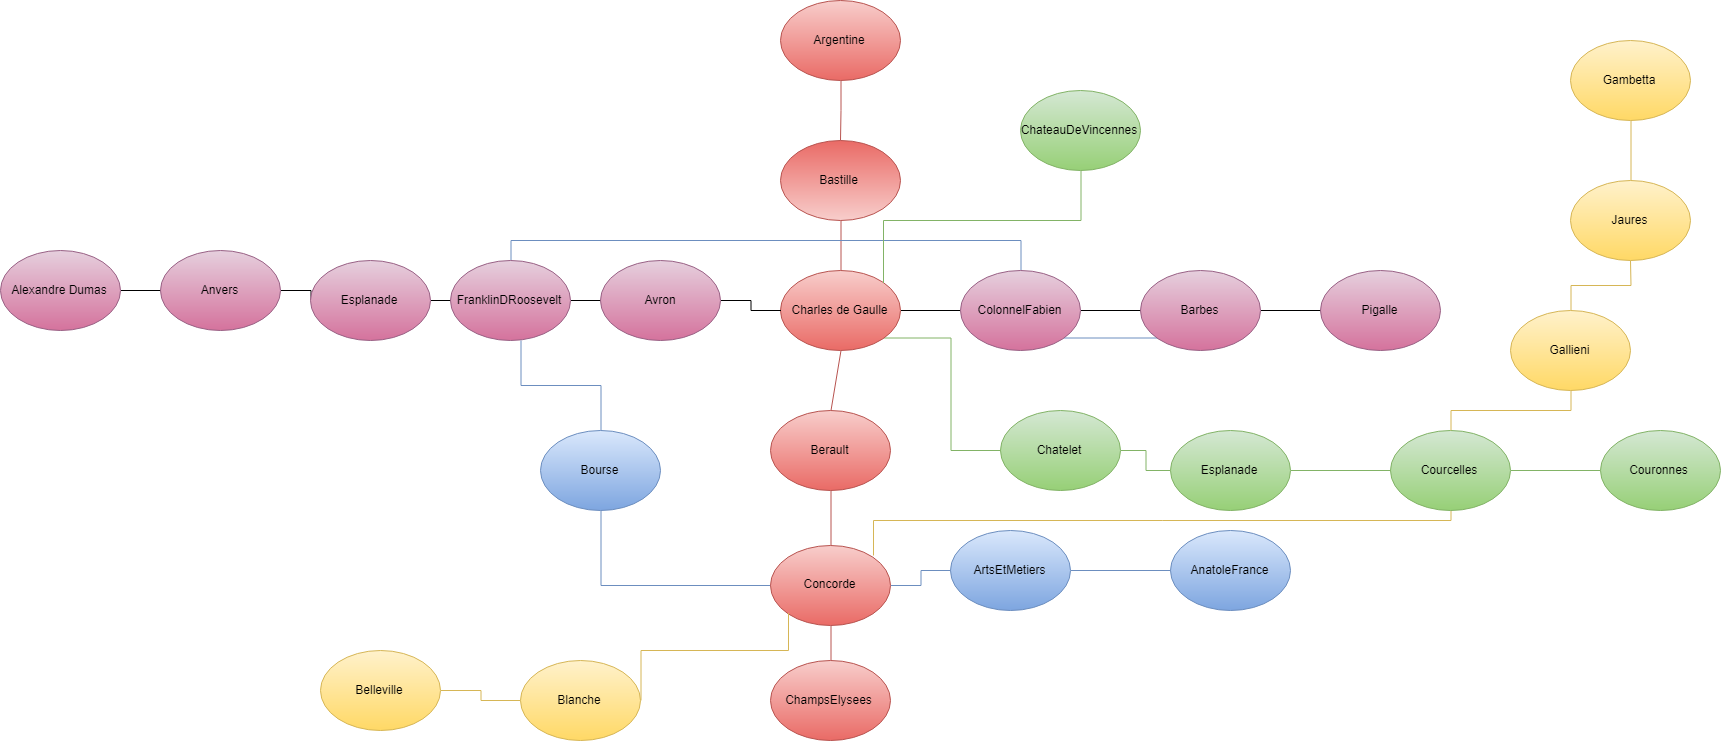
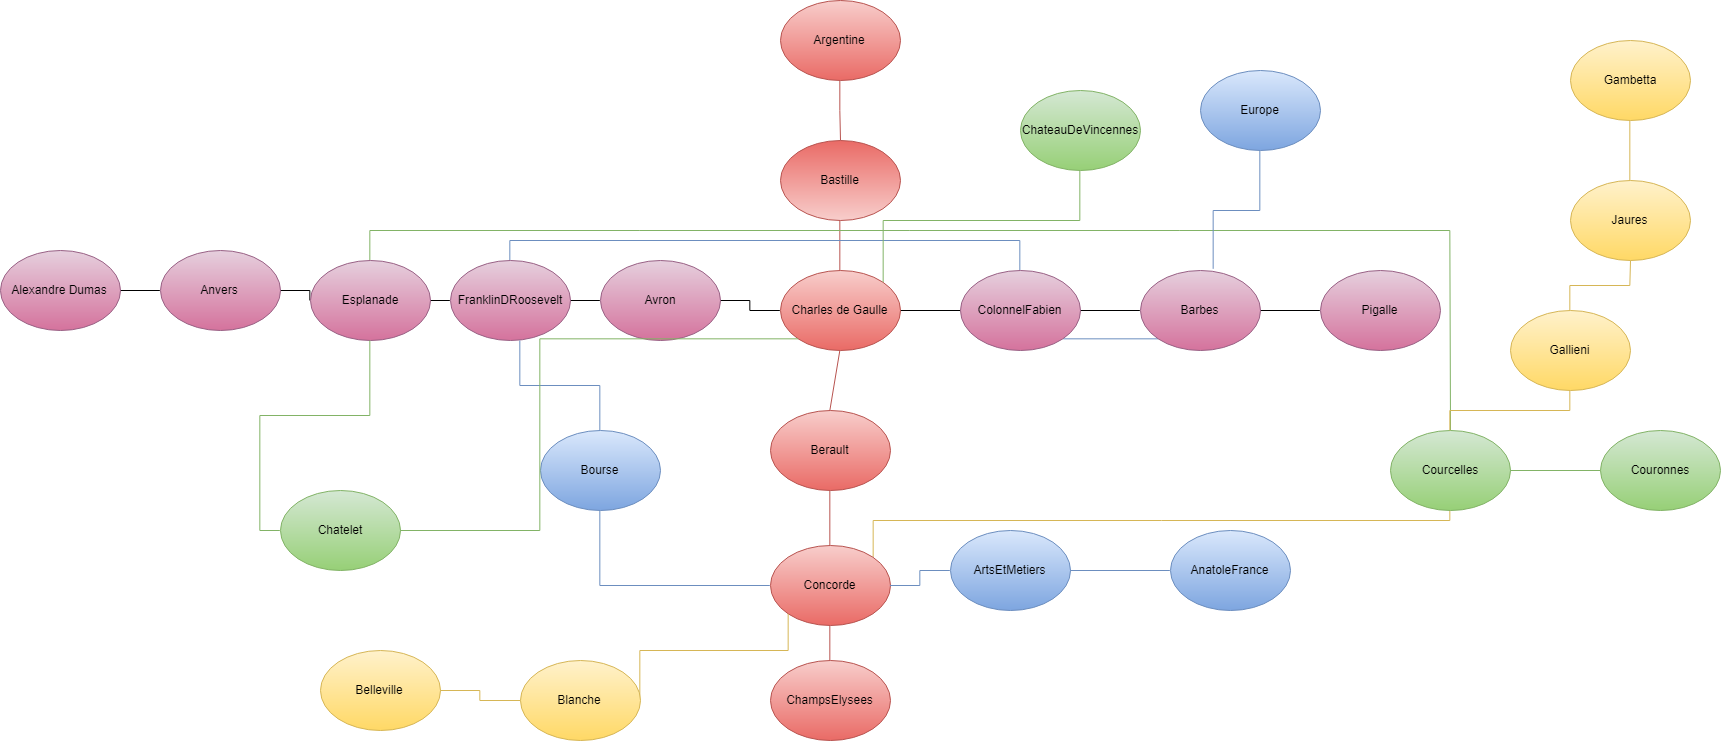
géolocalisation des stations et légères corrections du plan

diff --git a/src/main/java/Main/Plan.java b/src/main/java/Main/Plan.java
@@ -27,43 +27,44 @@ public class Plan {
 
 		// Ligne 1 Argentine -> ChampsElysee
 
-		listeStation.put("Argentine", new Station("Argentine",new int[]{1}));
-		listeStation.put("Bastille", new Station("Bastille",new int[]{1}));
-		listeStation.put("Berault", new Station("Berault",new int[]{1}));
-		listeStation.put("ChampsElysee", new Station("ChampsElysee",new int[]{1}));
+		listeStation.put("Argentine", new Station(55,89,"Argentine",new int[]{1}));
+		listeStation.put("Bastille", new Station(57,73,"Bastille",new int[]{1}));
+		listeStation.put("Berault", new Station(60,39,"Berault",new int[]{1}));
+		listeStation.put("ChampsElysee", new Station(61,17,"ChampsElysee",new int[]{1}));
 
 		// Ligne 2 AlexandreDumas -> Pigalle
-		listeStation.put("AlexandreDumas", new Station("AlexandreDumas",new int[]{2}));
-		listeStation.put("Anvers", new Station("Anvers",new int[]{2}));
-		listeStation.put("Avron", new Station("Avron",new int[]{2}));
-		listeStation.put("Barbes", new Station("Barbes",new int[]{2}));
-		listeStation.put("Pigalle", new Station("Pigalle",new int[]{2}));
+		listeStation.put("AlexandreDumas", new Station(10,60,"AlexandreDumas",new int[]{2}));
+		listeStation.put("Anvers", new Station(19,58,"Anvers",new int[]{2}));
+		listeStation.put("Avron", new Station(50,60,"Avron",new int[]{2}));
+		listeStation.put("Barbes", new Station(80,45,"Barbes",new int[]{2}));
+		listeStation.put("Pigalle", new Station(91,40,"Pigalle",new int[]{2}));
 
 		// Ligne 3
-		listeStation.put("AnatoleFrance", new Station("AnatoleFrance",new int[]{3}));
-		listeStation.put("ArtsEtMetiers", new Station("ArtsEtMetiers",new int[]{3}));
-		listeStation.put("Bourse", new Station("Bourse",new int[]{3}));
-		listeStation.put("Europe", new Station("Europe",new int[]{3}));
+		listeStation.put("AnatoleFrance", new Station(100,10,"AnatoleFrance",new int[]{3}));
+		listeStation.put("ArtsEtMetiers", new Station(91,22,"ArtsEtMetiers",new int[]{3}));
+		listeStation.put("Bourse", new Station(31,33,"Bourse",new int[]{3}));
+		listeStation.put("Europe", new Station(88,79,"Europe",new int[]{3}));
 
 		// Ligne 4
-		listeStation.put("ChateauDeVincennes", new Station("ChateauDeVincennes",new int[]{4}));
-		listeStation.put("Chatelet", new Station("Chatelet",new int[]{4}));
-		listeStation.put("Couronnes", new Station("Couronnes",new int[]{4}));
+		listeStation.put("ChateauDeVincennes", new Station(22,85,"ChateauDeVincennes",new int[]{4}));
+		listeStation.put("Chatelet", new Station(37,28,"Chatelet",new int[]{4}));
+		listeStation.put("Couronnes", new Station(9,22,"Couronnes",new int[]{4}));
 
 		// Ligne 5
-		listeStation.put("Belleville", new Station("Belleville",new int[]{5}));
-		listeStation.put("Blanche", new Station("Blanche",new int[]{5}));
-		listeStation.put("Gallieni", new Station("Gallieni",new int[]{5}));
-		listeStation.put("Gambetta", new Station("Gambetta",new int[]{5}));
+		listeStation.put("Belleville", new Station(83,34,"Belleville",new int[]{5}));
+		listeStation.put("Blanche", new Station(81,18,"Blanche",new int[]{5}));
+		listeStation.put("Gallieni", new Station(18,39,"Gallieni",new int[]{5}));
+		listeStation.put("Jaures", new Station(51,43,"Jaures",new int[]{5}));
+		listeStation.put("Gambetta", new Station(30,69,"Gambetta",new int[]{5}));
 
 		// LigneCommune
-		listeStation.put("CharlesDeGaulle", new Station("CharlesDeGaulle",new int[]{1,2,4}));// 1 et 2 et 4
-		listeStation.put("Concorde", new Station("Concorde",new int[]{1,3,5}));// 1,3,5
-		listeStation.put("Esplanade", new Station("Esplanade",new int[]{2,4}));// 2,4
-		listeStation.put("FranklinDRoosvlet", new Station("FranklinDRoosvlet",new int[]{2,3}));// 2,3
-		listeStation.put("ColonnelFabien", new Station("ColonnelFabien",new int[]{2,3}));// 2,3
-		listeStation.put("Courcelles", new Station("Courcelles",new int[]{4,5}));// 4,5
-		listeStation.put("Jaures", new Station("Jaures",new int[]{2,5}));// 2,5
+		listeStation.put("CharlesDeGaulle", new Station(60,55,"CharlesDeGaulle",new int[]{1,2,4}));// 1 et 2 et 4
+		listeStation.put("Concorde", new Station(67,30,"Concorde",new int[]{1,3,5}));// 1,3,5
+		listeStation.put("Esplanade", new Station(30,65,"Esplanade",new int[]{2,4}));// 2,4
+		listeStation.put("FranklinDRoosvlet", new Station(40,51,"FranklinDRoosvlet",new int[]{2,3}));// 2,3
+		listeStation.put("ColonnelFabien", new Station(71,59,"ColonnelFabien",new int[]{2,3}));// 2,3
+		listeStation.put("Courcelles", new Station(17,12,"Courcelles",new int[]{4,5}));// 4,5
+		
 		
 		metroParis.setStations(listeStation);
 		
